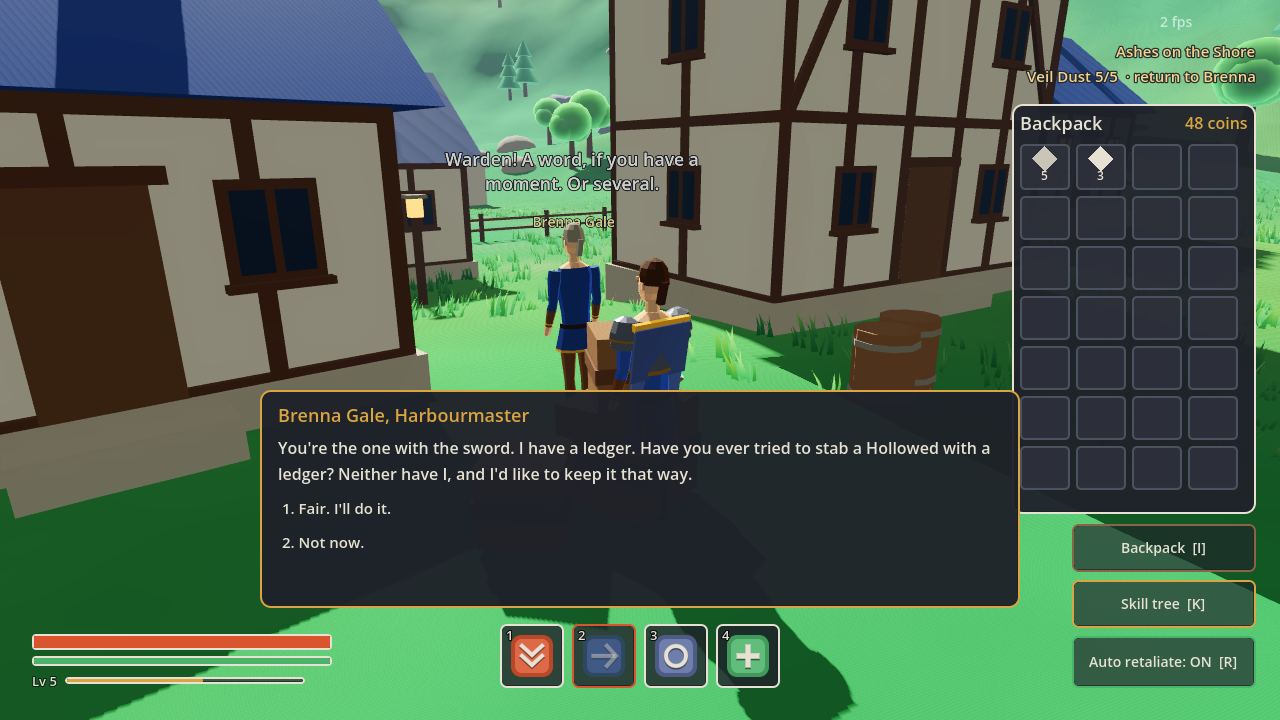
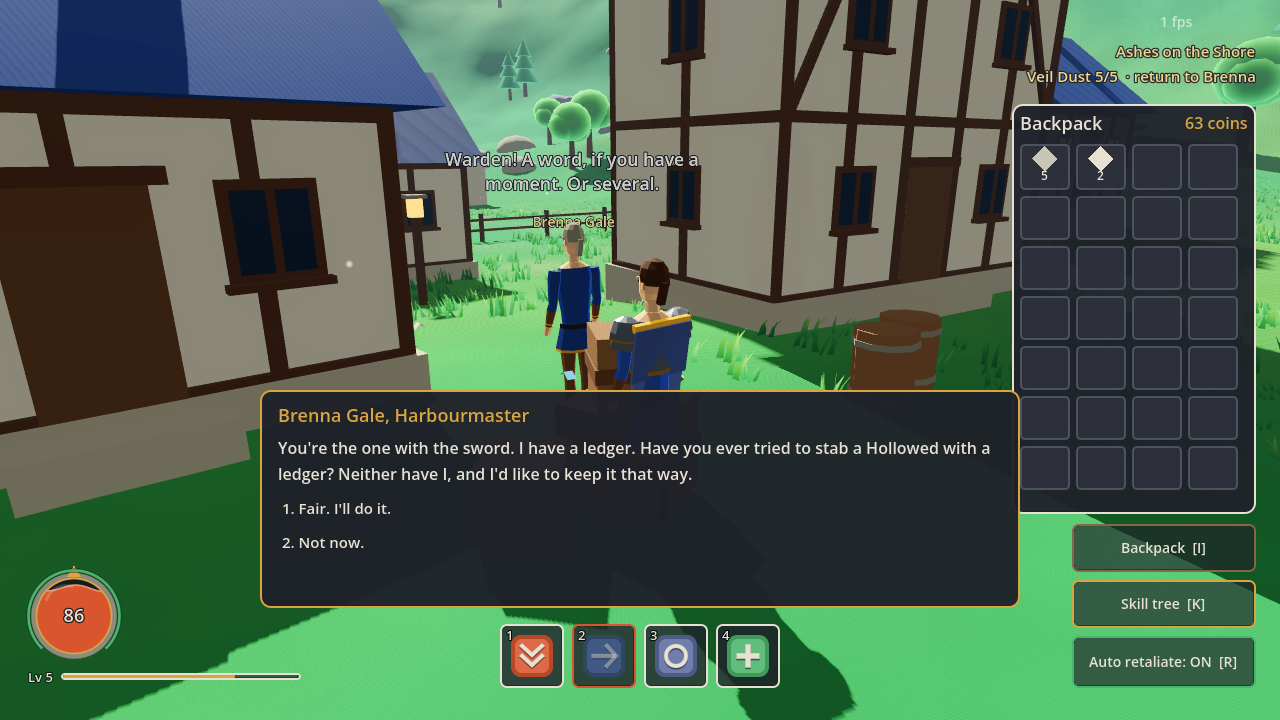
UI: health-orb met stamina-boog, radiale cooldown op de skillbalk
Claude-Session: https://claude.ai/code/session_01X1Hshh3gfRJFNSyViJVPYM

diff --git a/CHANGELOG.md b/CHANGELOG.md
@@ -18,6 +18,7 @@ Feedback van de eigenaar verwerkt: besturing in RuneScape-stijl, haperingen bij 
 - **Klassen en skilltree (keuze-issue #1):** de eigenaar koos A met Priest en Warlock erbij, en C los. Er zijn nu 5 klassen (Vanguard, Ranger, Arcanist, Priest, Warlock). Vanguard is speelbaar met een boom van 3 takken (Blade, Bulwark, Momentum). XP per verslagen Hollowed, levels, 1 skillpunt per level. Skills op de balk worden pas bruikbaar als je ze in de boom vrijspeelt (Cleave heb je vanaf het begin). Karaktervenster met **K** of de knop rechtsonder, met daarin ook je trouw aan een factie (geen invloed op je klasse). XP-balk en level-up-melding in de HUD.
 - **Loot en rugzak:** Hollowed laten een buidel met coins, Veil Dust en soms zeldzamere spullen vallen. Rugzak van 28 vakjes (I), eten geneest.
 - **Eerste quest met dialoog:** klik op Brenna Gale in Saltwick. Quest "Ashes on the Shore" (5 Veil Dust), met droge humor, beloning in XP, coins en vis. Daarna wijst ze je naar de gedoofde Veilspire. Questlog (L) en tracker rechtsboven.
+- **UI-ontwerp:** nieuw document `docs/UI.md` met stijlregels, schermindeling en de verfijnde versie van alle HUD-onderdelen (vraag van de eigenaar). De eerste stappen zijn gebouwd: een health-orb met golvende vloeistof en een stamina-boog, en een radiale cooldown op de skillbalk.
 - **Alles Engels in het spel:** in-game tekst was al Engels. Nu zijn ook alle namen officieel Engels (Saltwick, Warden's Vale, the Veil, the Hollowed, the Saltbound enzovoort), met een namenlijst in `docs/DESIGN.md`. Bij het binnenlopen van een gebied verschijnt de naam in beeld.
 - **Roadmap:** nieuwe koers. Eerst een verticale slice van het eerste gebied (klassen en skilltree, XP en loot, quest met dialoog, opslaan, geluid, modellen bijschaven), pas daarna de wereld uitbreiden.
 - **Personages:** held, dorpelingen en Leeghulzen opnieuw opgebouwd als gefacetteerde low-poly lichamen met echte verhoudingen (naar de anatomie-referentie). Held met kuras met goudrand, gelaagde schouderstukken, tabard, cape met franje en een sierlijk zwaard met gloeiende steen. Leeghulzen mager en gebogen, met gescheurde gewaden en klauwen.

diff --git a/docs/UI.md b/docs/UI.md
@@ -72,9 +72,9 @@ Dit is een smaakkeuze. Voorstel: eerst een keuze-issue openen voordat het gebouw
 
 | Onderdeel | Nu | Doel (V.11) |
 |---|---|---|
-| Health en stamina | platte balken | orbs met vloeistof-shader en een stamina-boog |
+| Health en stamina | **health-orb met golvende vloeistof en een stamina-boog (gebouwd 13-11-2026)** | afwerking: textuur op de rand, waarschuwing bij lage health |
 | Resource | ontbreekt | orb per klasse (eerst een keuze-issue) |
-| Skillbalk | 4 vlakke vakken, verticale cooldown | gebogen balk, radiale sweep, slepen vanuit de boom |
+| Skillbalk | 4 vlakke vakken, **radiale cooldown (gebouwd 13-11-2026)** | gebogen balk, slepen vanuit de boom |
 | Skilltree | knoppen in kolommen | boom met iconen en verbindingslijnen |
 | Rugzak | gekleurde ruitjes | eigen itemiconen |
 | Dialoog | paneel zonder portret | paneel met portret |
